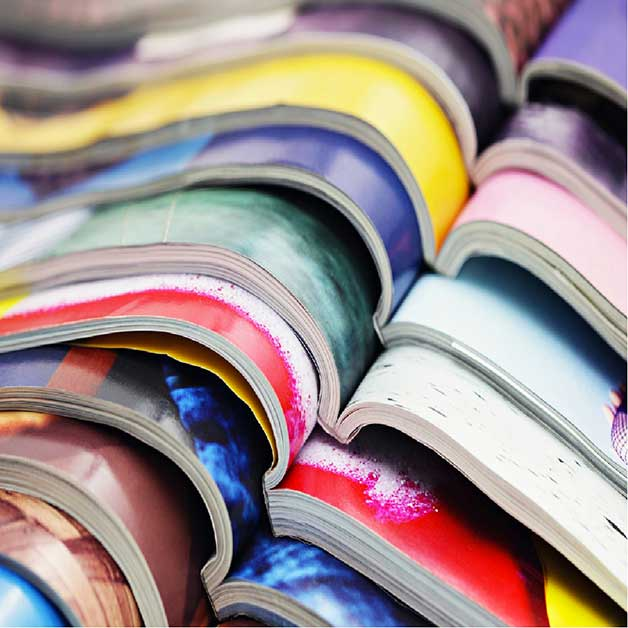
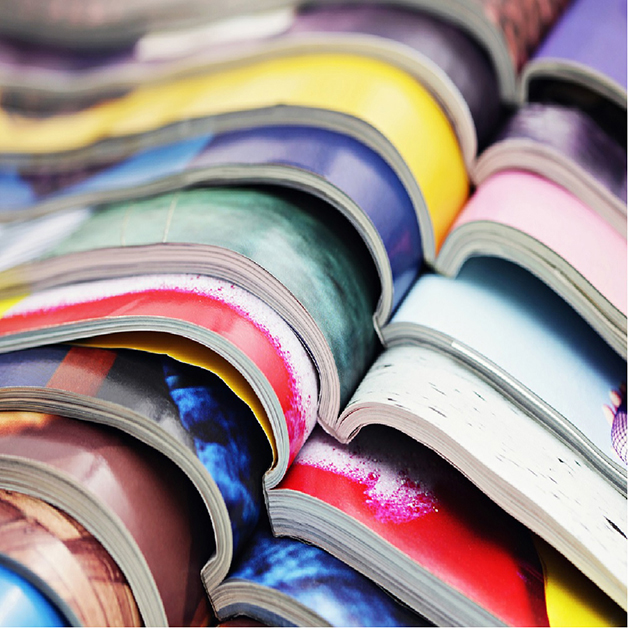
Images en webp

diff --git a/index.html b/index.html
@@ -164,7 +164,7 @@
 		</div>
 		<div class="row tight-width-whitespace portfolio-row">
 			<div class="col-sm-6">
-				<a href="#" data-lightbox="img/1.jpg" data-gallery-id="gallery-1" data-caption="Refonte d'un site web pour un journal local" data-frame="snapshot-lb"><img src="img/1.jpg" alt="piles de livres pour la refonte d'un journal local" class="img-responsive portfolio-thumb" /></a>
+				<a href="#" data-lightbox="img/1.webp" data-gallery-id="gallery-1" data-caption="Refonte d'un site web pour un journal local" data-frame="snapshot-lb"><img src="img/1.webp" alt="piles de livres pour la refonte d'un journal local" class="img-responsive portfolio-thumb" /></a>
 				<h3 class="mg-md text-center">
 					Refonte d'un site web pour un journal local
 				</h3>
@@ -173,7 +173,7 @@
 				</p>
 			</div>
 			<div class="col-sm-6">
-				<a href="#" data-lightbox="img/2.jpg" data-gallery-id="gallery-1" data-caption="Création d'un site web pour photographes" data-frame="snapshot-lb"><img src="img/2.jpg" class="img-responsive portfolio-thumb" alt="femme photographe qui prend une photo avec un appareil photo professionnel" /></a>
+				<a href="#" data-lightbox="img/2.webp" data-gallery-id="gallery-1" data-caption="Création d'un site web pour photographes" data-frame="snapshot-lb"><img src="img/2.webp" class="img-responsive portfolio-thumb" alt="femme photographe qui prend une photo avec un appareil photo professionnel" /></a>
 				<h3 class="mg-md text-center">
 					Création d'un site web pour photographes
 				</h3>
@@ -184,7 +184,7 @@
 		</div>
 		<div class="row tight-width-whitespace portfolio-row">
 			<div class="col-sm-6">
-				<a href="#" data-lightbox="img/3.jpg" data-gallery-id="gallery-1" data-caption="Création d'un site internet pour un voyageur" data-frame="snapshot-lb"><img src="img/3.jpg" class="img-responsive portfolio-thumb" alt="matériel de vidéo,photographie, drône, matériel de vidéaste"/></a>
+				<a href="#" data-lightbox="img/3.webp" data-gallery-id="gallery-1" data-caption="Création d'un site internet pour un voyageur" data-frame="snapshot-lb"><img src="img/3.webp" class="img-responsive portfolio-thumb" alt="matériel de vidéo,photographie, drône, matériel de vidéaste"/></a>
 				<h3 class="mg-md text-center">
 					Création d'un site internet pour un voyageur
 				</h3>
@@ -193,7 +193,7 @@
 				</p>
 			</div>
 			<div class="col-sm-6">
-				<a href="#" data-lightbox="img/4.jpg" data-gallery-id="gallery-1" data-caption="Conception d'un site pour une agence de mariage" data-frame="snapshot-lb"><img src="img/4.jpg" class="img-responsive portfolio-thumb" alt="pesonnes qui utilisent ordinateur et tablette, loisirs créatifs" /></a>
+				<a href="#" data-lightbox="img/4.webp" data-gallery-id="gallery-1" data-caption="Conception d'un site pour une agence de mariage" data-frame="snapshot-lb"><img src="img/4.webp" class="img-responsive portfolio-thumb" alt="pesonnes qui utilisent ordinateur et tablette, loisirs créatifs" /></a>
 				<h3 class="mg-md text-center">
 					Conception d'un site pour une agence de mariage
 				</h3>

diff --git a/style.css b/style.css
@@ -827,7 +827,7 @@ h4 {
 }
 
 .bg-banniere {
-    background-image: url("img/agence-la-panthere.jpg");
+    background-image: url("img/agence-la-panthere.webp");
 }
 
 .bg-presentation {
